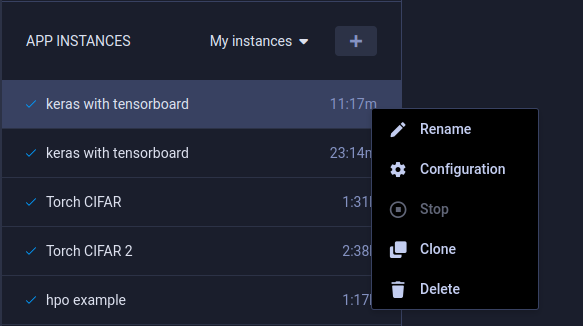
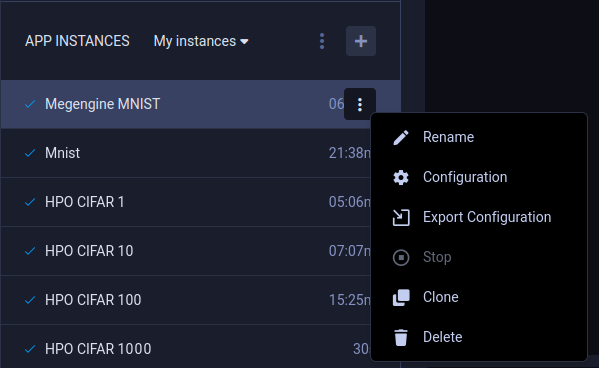
small edits

diff --git a/docs/hyperdatasets/webapp/webapp_datasets_versioning.md b/docs/hyperdatasets/webapp/webapp_datasets_versioning.md
@@ -133,8 +133,8 @@ Label usage stats for this dataset version.
 The **Version Frame Browser** displays a preview of the contents of the selected dataset version.
 
 View the version's frames as thumbnails or in a table. Use the view toggle to switch between thumbnail 
-view <img src="/docs/latest/icons/ico-table-view.svg" alt="thumbnail view" className="icon size-md space-sm" /> and 
-table view <img src="/docs/latest/icons/ico-grid-view.svg" alt="table view" className="icon size-md space-sm" /> . 
+view <img src="/docs/latest/icons/ico-grid-view.svg" alt="thumbnail view" className="icon size-md space-sm" /> and 
+table view <img src="/docs/latest/icons/ico-table-view.svg" alt="table view" className="icon size-md space-sm" /> . 
 
 Use the thumbnail view for a visual preview of the version's frames:
 

diff --git a/docs/webapp/applications/apps_overview.md b/docs/webapp/applications/apps_overview.md
@@ -51,6 +51,8 @@ Access app instance actions, by right clicking an instance, or through the menu 
 
 * **Rename** - Rename the instance 
 * **Configuration** - View an instance’s configuration 
+* **Export Configuration** - Export the app instance configuration as a JSON file, which you can later import to create 
+  a new instance with the same configuration.   
 * **Stop** - Shutdown the instance
 * **Clone** - Launch a new instance with same configuration prefilled
 * **Delete** - Delete the instance
